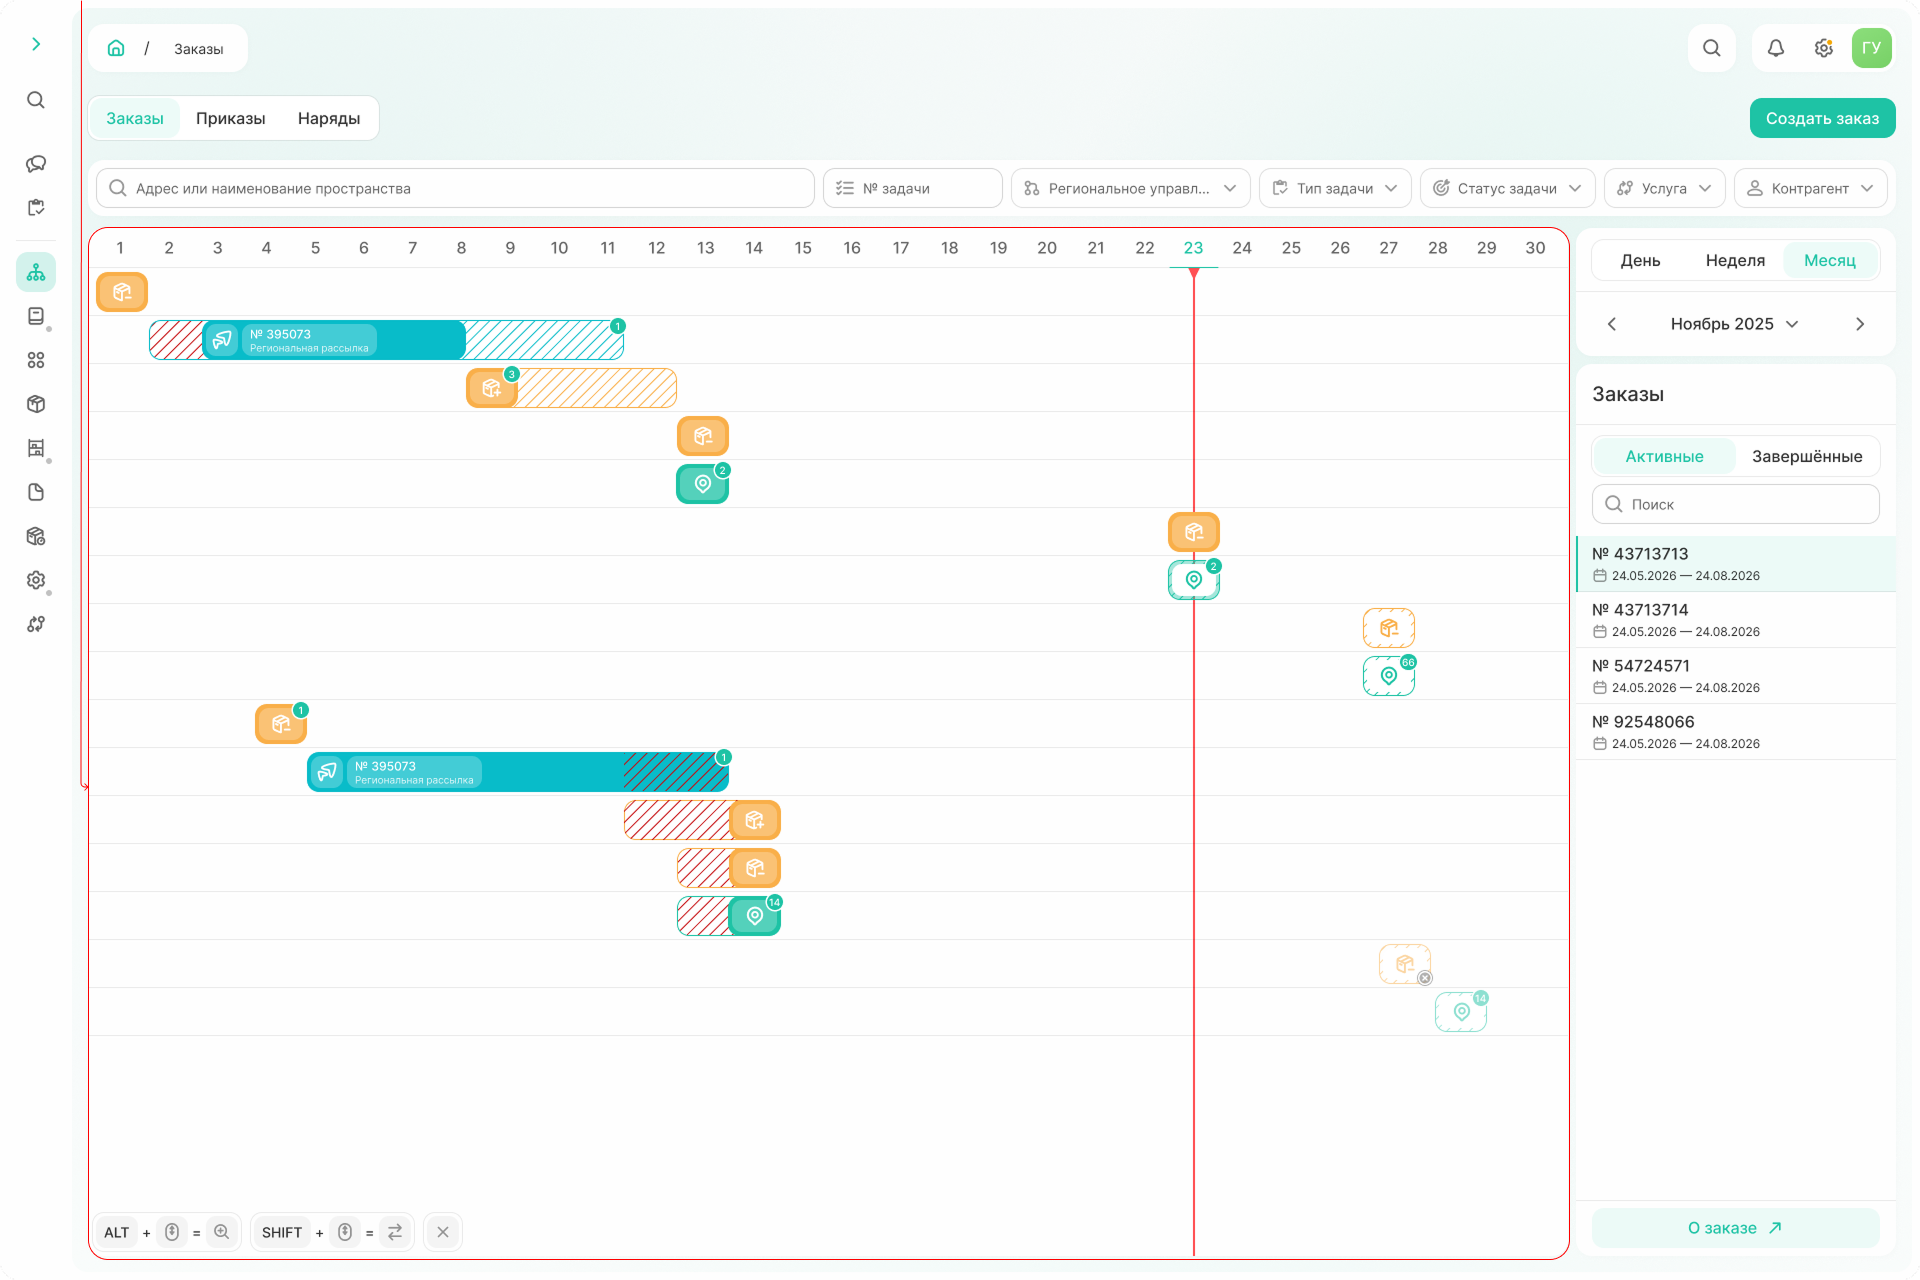
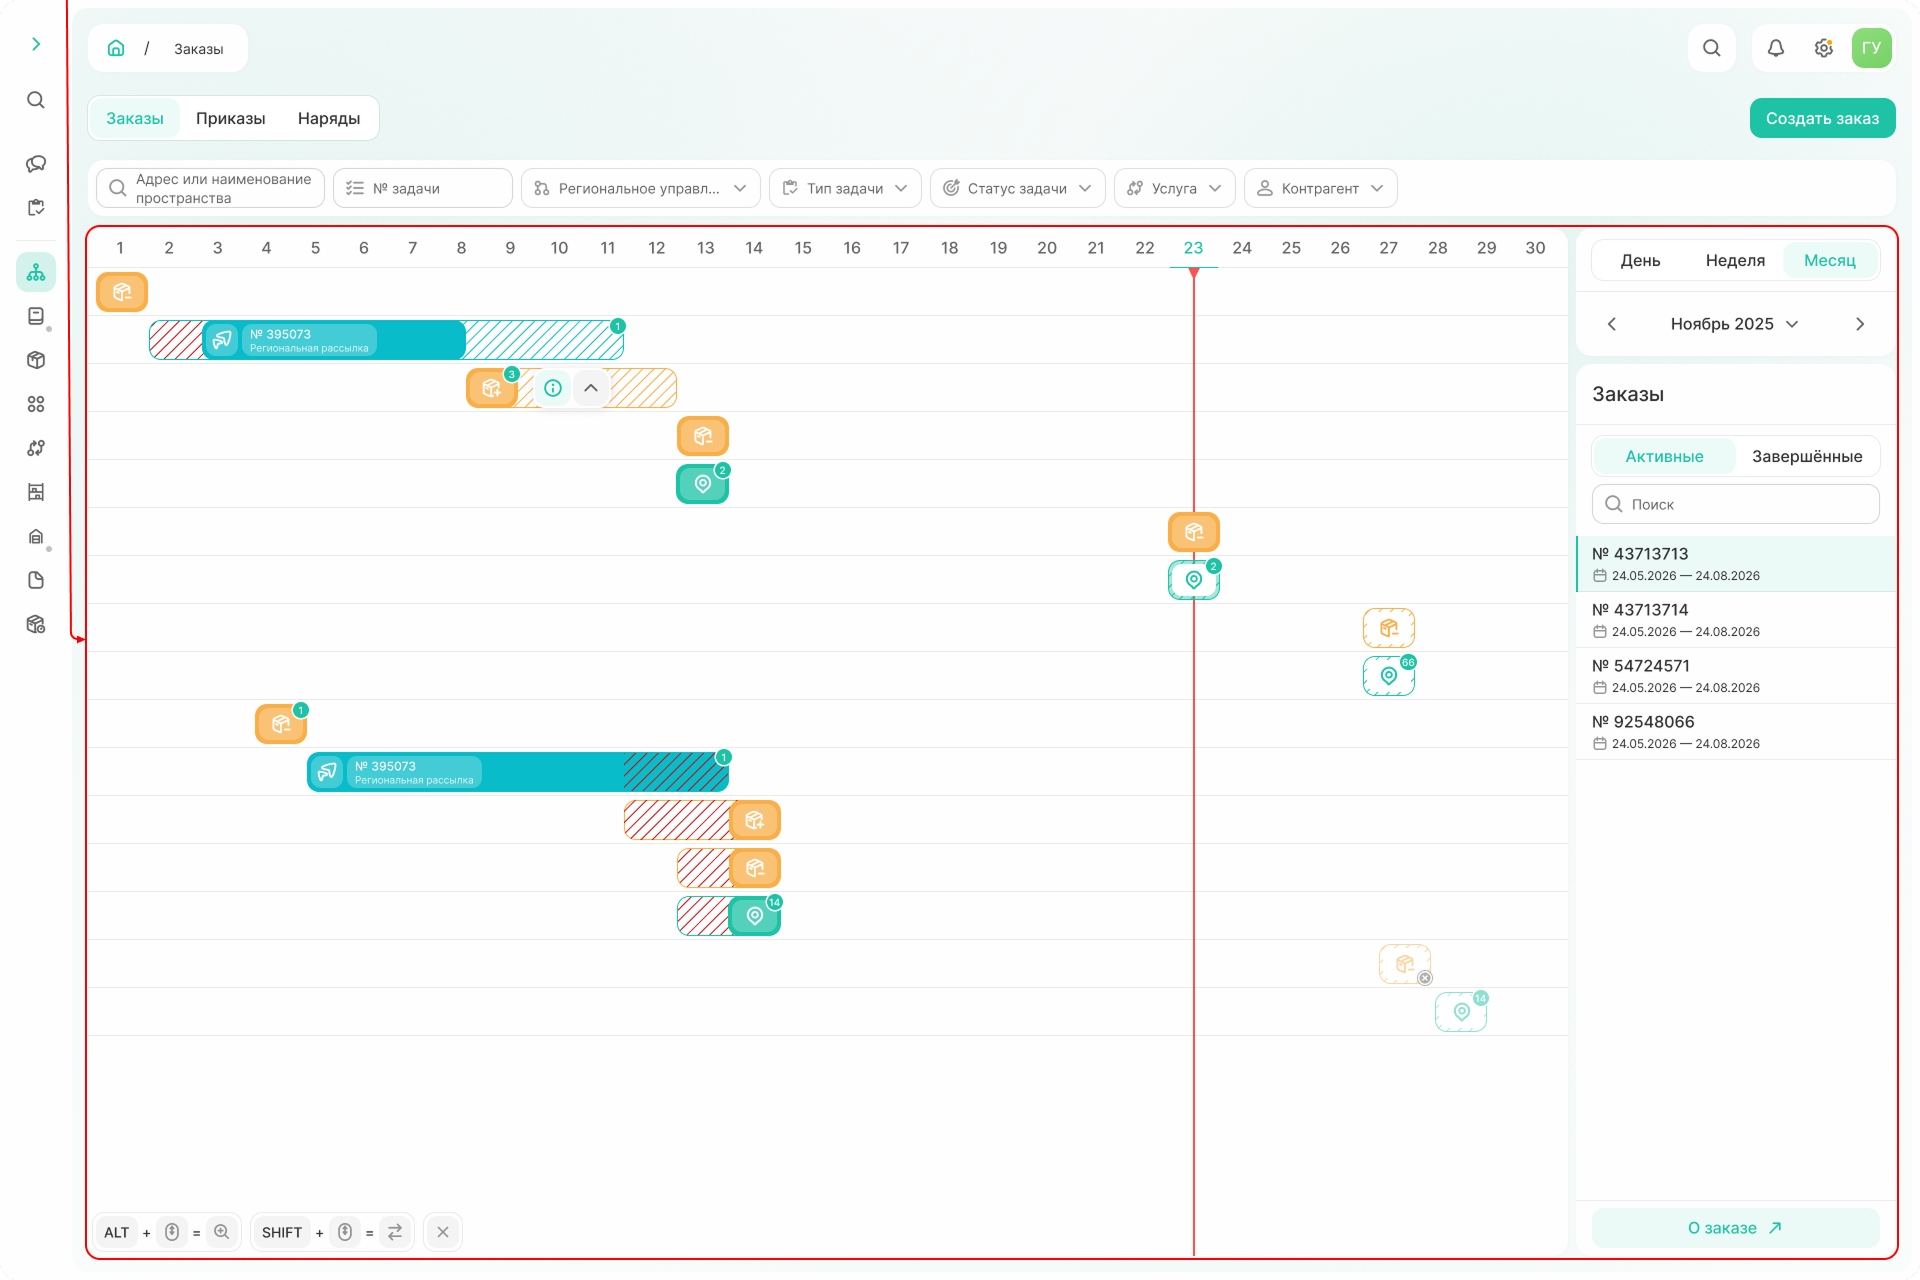
update list of orders

diff --git a/docs/ru/list_of_orders.md b/docs/ru/list_of_orders.md
@@ -1,6 +1,6 @@
 # Список заказов
 
-Список заказов доступен в подсистеме «Список заказов».
+В подсистеме «Список заказов» собраны все созданные заказы в системе.
 
 ![list_of_orders](_images/_screen_list_of_orders_mounth.png){.center width=1200}
 
@@ -25,13 +25,13 @@
 По горизонтали отображены даты текущего месяца, по вертикали — задачи по заявке. Красной вертикальной линией отмечена текущая дата. 
 
 В правой части окна можно выбрать
-- **режим отображения**: месяц, неделя, день. Можно переключаться между режимами: зажмите Alt на клавиатуре и прокручивайте колесо мыши;
-- **месяц**, по которому строится диаграмма. Можно переключаться между месяцами: зажмите Shift на клавиатуре и прокручивайте колесо мыши;
+- **режим отображения**: месяц, неделя, день. 
+Для переключения между режимами: зажмите Alt на клавиатуре и прокручивайте колесо мыши;
+- **месяц**, по которому строится диаграмма. 
+Для переключения между месяцами: зажмите Shift на клавиатуре и прокручивайте колесо мыши;
 - **заказ**, по которому отображаются задачи.
 
-Фильтры вверху диаграммы остаются активными. 
-
-Можно кликнуть на задачу и увидеть всплывающее окно со статусом, номером, датами и наименованием пространства. 
+Кроме того, можно кликнуть на задачу и увидеть всплывающее окно со статусом, номером, датами и наименованием пространства. 
 
 ![info_task](_images/_screen_info_task.png){.center width=600}
 
@@ -41,7 +41,7 @@
 | :----:  | :---     |
 | ![task_1](_images/_screen_task_done.png){.center height=40}| Задача выполнена, плановые и фактические даты по задаче совпадают| 
 | ![task_2](_images/_screen_task_start_late_done.png){.center height=40}| Задача выполнена, выполнение началось вовремя, но завершилось позже запланированного| 
-| ![task_3](_images/_screen_task_late_start_end.png){.center height=40} | ЗЗадача выполнена в срок, но началась позже запланированного | 
+| ![task_3](_images/_screen_task_late_start_end.png){.center height=40} | Задача выполнена в срок, но началась позже запланированного | 
 | ![task_4](_images/_screen_task_late_done.png){.center height=40} | Задача выполнена, работы начались позже запланированного и завершились раньше запланированного | 
 | ![task_5](_images/_screen_task_in_progress.png){.center height=40} | Задача выполняется| 
 | ![task_6](_images/_screen_task_plan_not_in_progress.png){.center height=40} | Задача запланирована, но не выполняется| 
@@ -51,10 +51,10 @@
 ![task_reg_sender](_images/_screen_reg_sender_task.png){.center width=400}
 
 - для задач типа «поступление» — количество списаний, которые необходимо выполнить после
-![task_from_1_to_3](_images/_screen_task_from_1_to_3.png){.center width=400}
+![task_from_1_to_3](_images/_screen_task_from_1_to_3.png){.center width=600}
 
 - для задач типа «наряд» — количество подзадач: по клику скрытые задачи развернутся вниз на диаграмме   
-![task_1_in_6](_images/_screen_task_1_6.png){.center width=400}
+![task_1_in_6](_images/_screen_task_1_6.png){.center width=500}
 
 ## Диаграмма Ганта: месяц
 
@@ -72,7 +72,7 @@
 
 {% note info %}
 
-Если одновременно выполняется много задач, часть из них отображается на диаграмме, остальные сворачиваются и отображаются по клику на число скрытых задач справа по строке.  
+Если одновременно выполняется много задач, часть из них отображается на диаграмме, остальные сворачиваются. Развернуть все задачи можно по клику на число скрытых задач справа по строке.  
 
 {% endnote %}
 

diff --git a/docs/ru/how_to_task.md b/docs/ru/how_to_task.md
@@ -1,6 +1,6 @@
 # Как создать заявку
 
-Заявка — это документ, который необходим для работы с номенклатурой внутри компании. Заявка состоит из задач, которые выполняются последовательно разными контрагентами. 
+**Заявка** — это документ, который необходим для работы с номенклатурой внутри компании. Заявка состоит из задач, которые выполняются последовательно разными контрагентами. 
 
 С заявкой работают:
 - автор — тот, кто создает заявку и заполняет основную информацию, таким правом обладает менеджер или руководитель склада;

diff --git a/docs/ru/how_to_request.md b/docs/ru/how_to_request.md
@@ -12,7 +12,7 @@
 
 ## 1. Заполнение первичной информации
 
-![_screen_request_first_page](_images/_screen_request_first_page.png){.center width=1200}
+![_screen_request_first_page](_images/_screen_request_first_page.png){.center width=600}
 
 ### Шаг 1. Выбор заказчика
 
